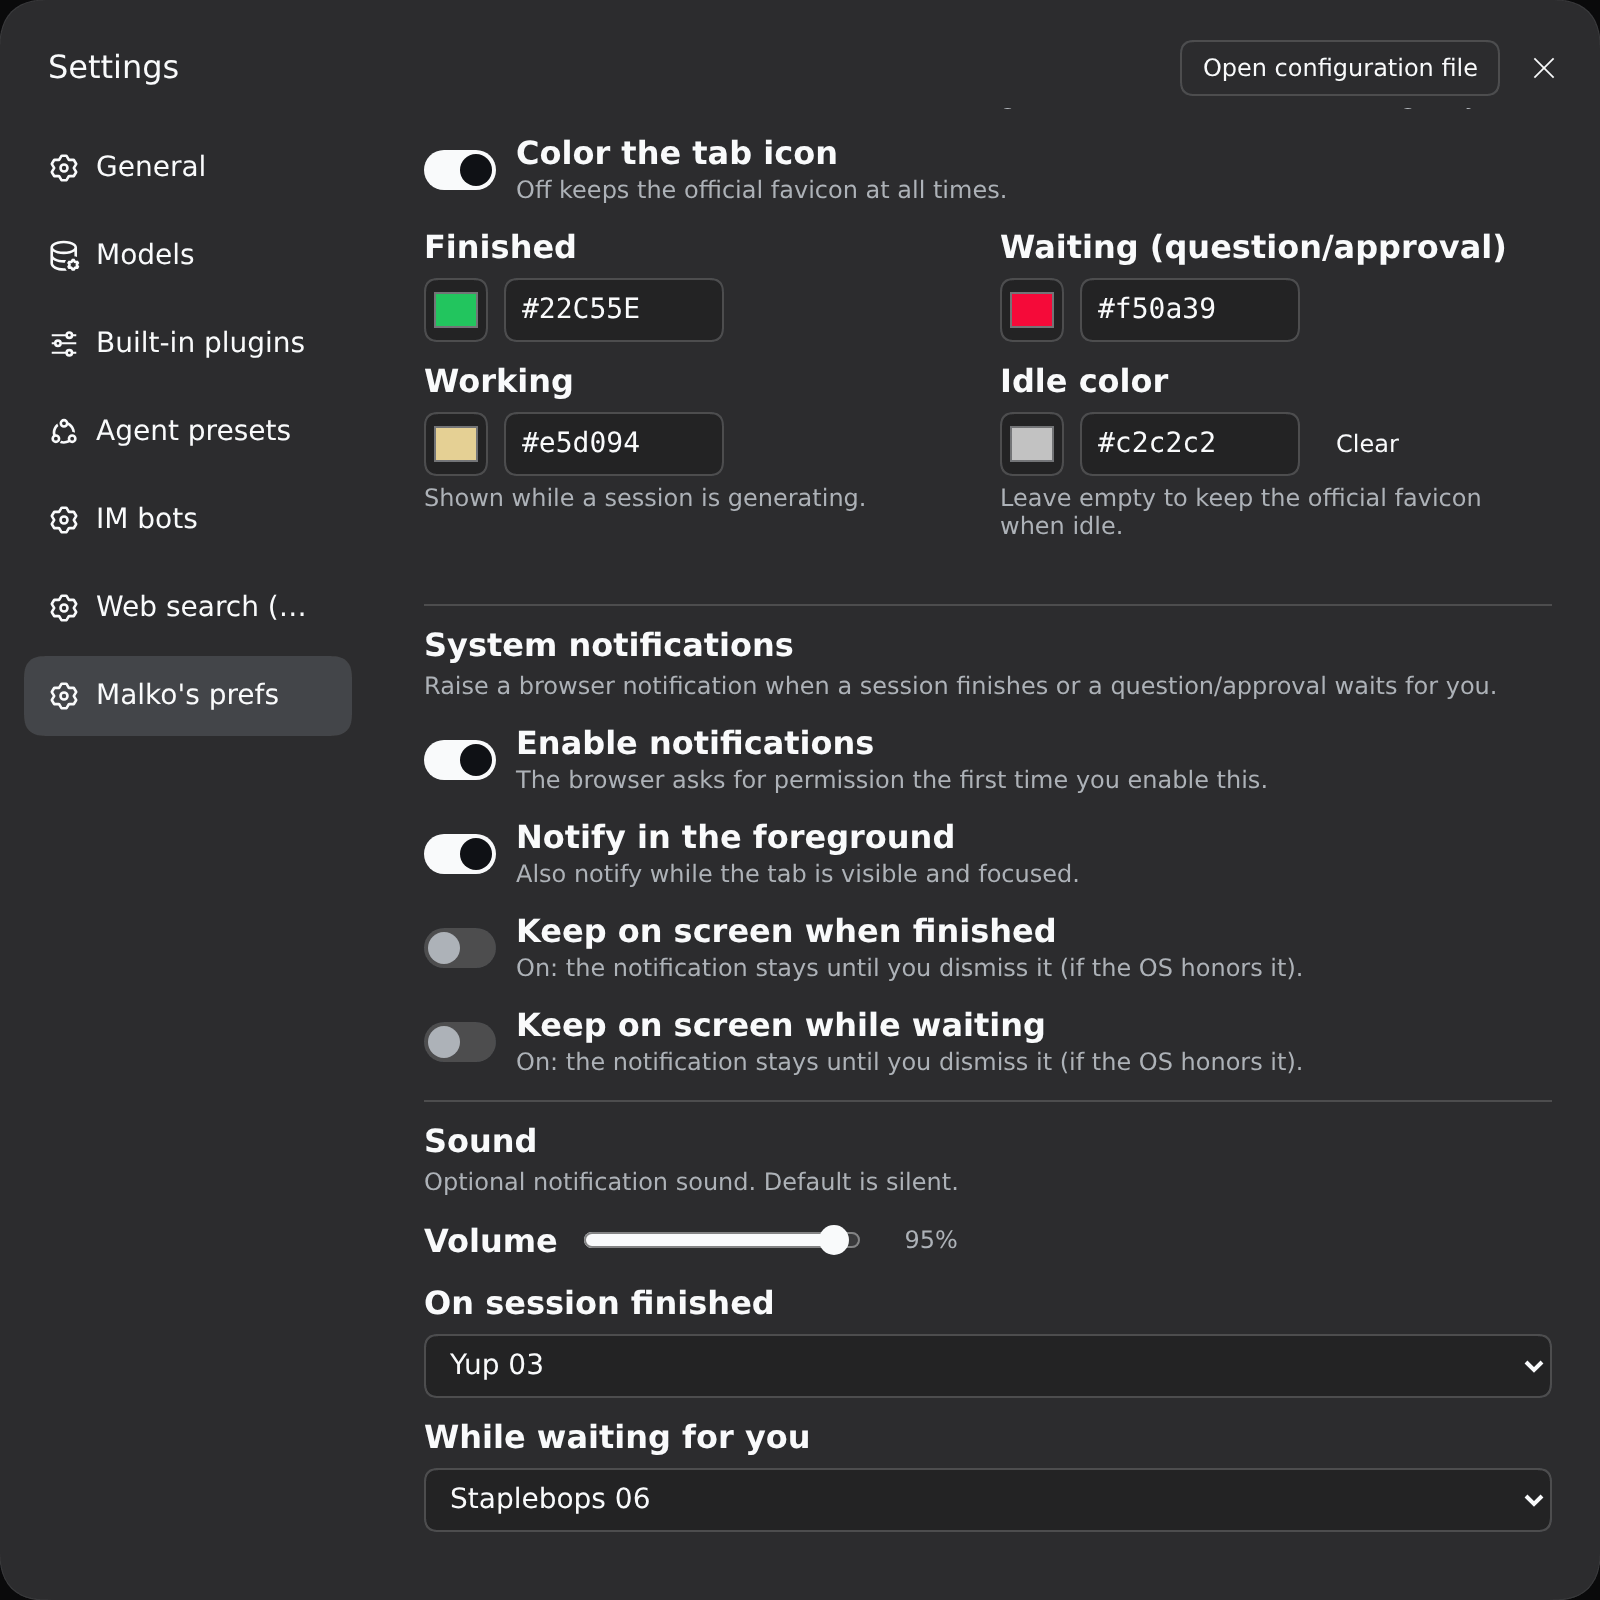
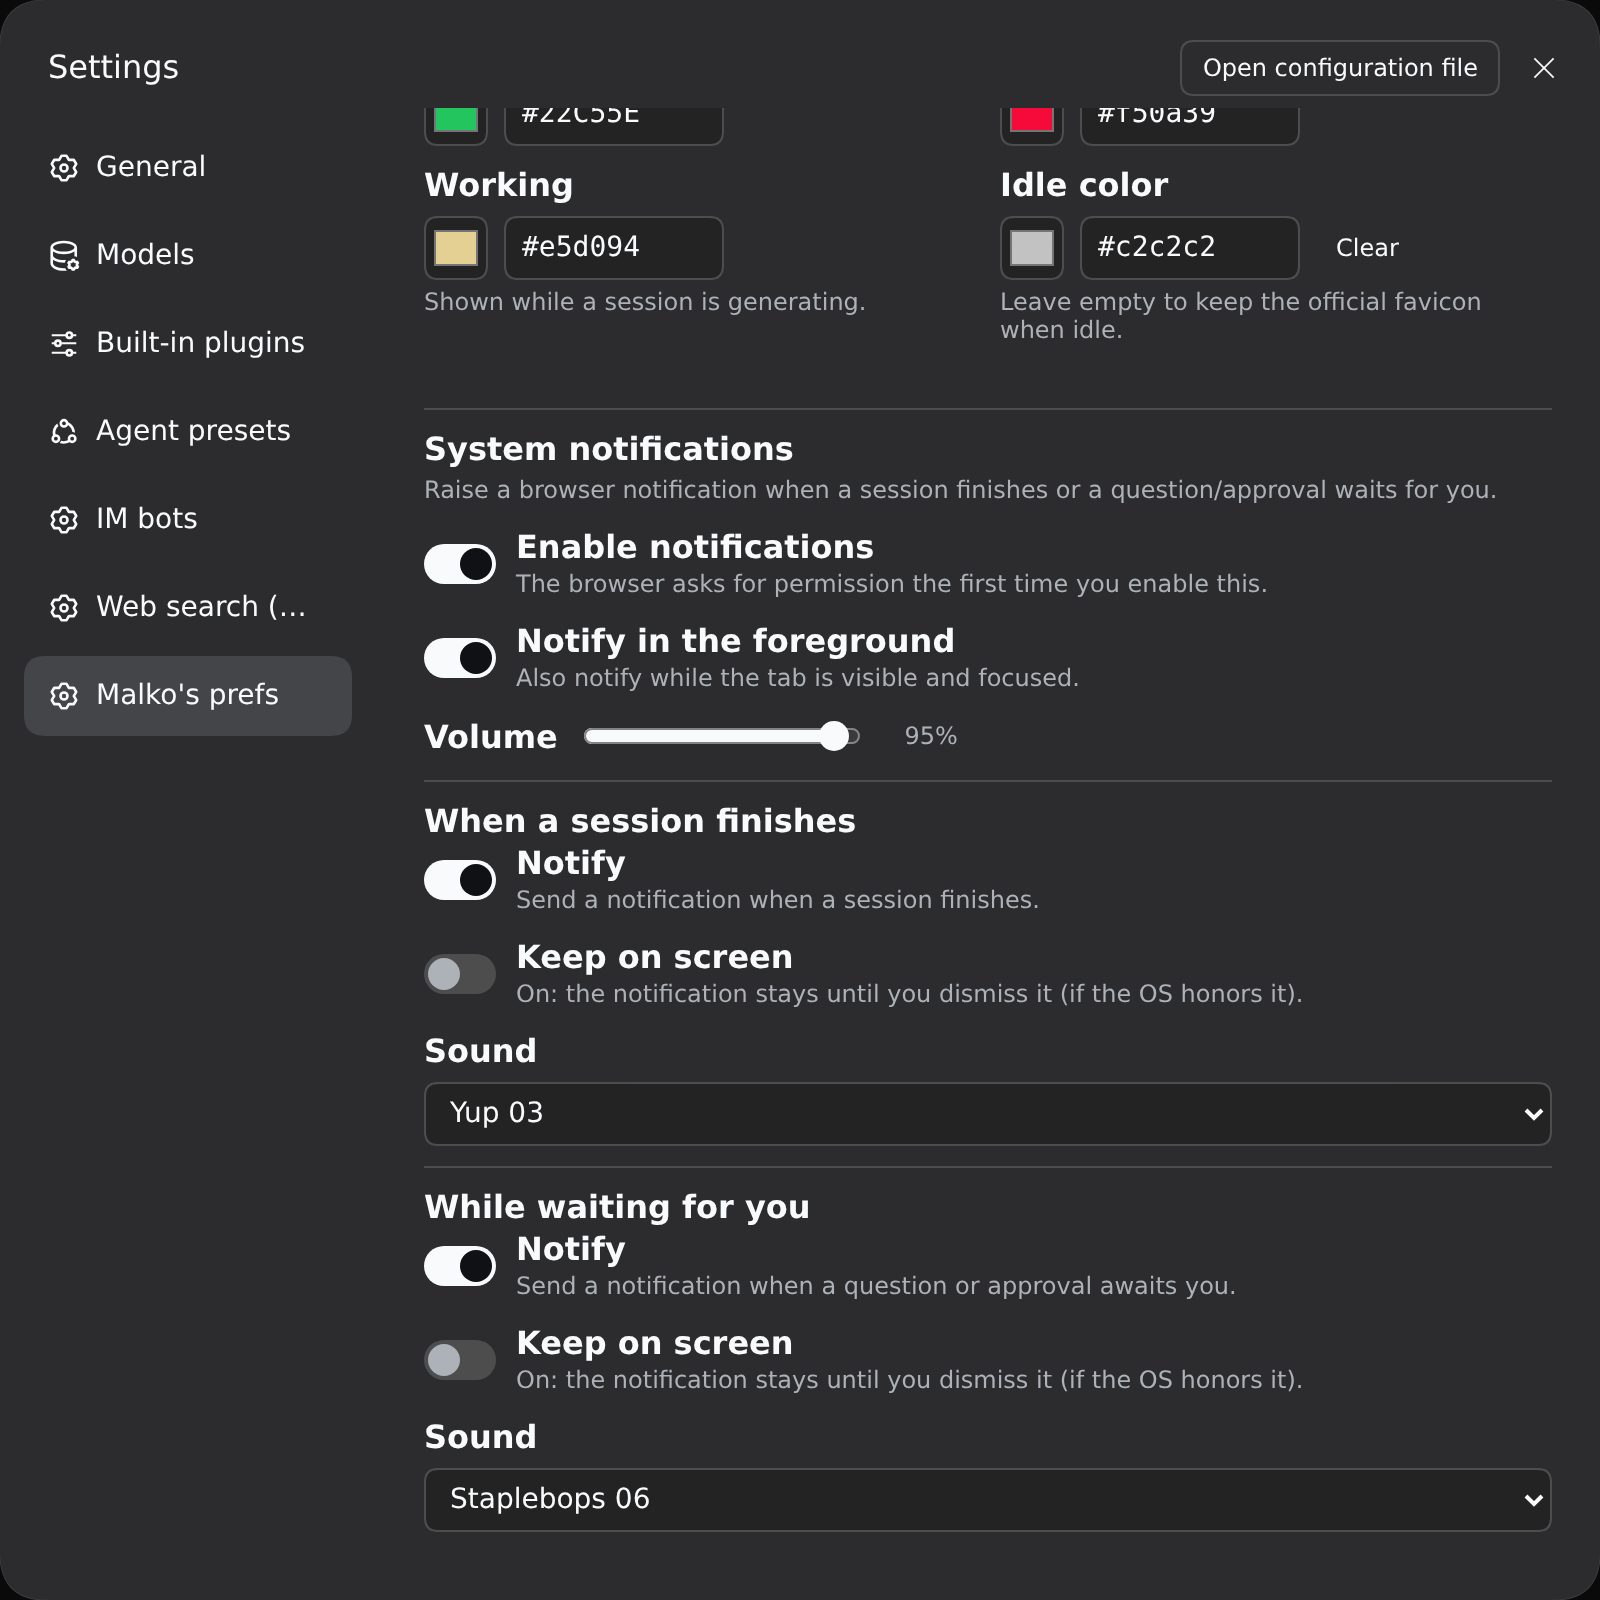
📝 Update README and screenshots for the per-type notification groups

diff --git a/README.md b/README.md
@@ -177,12 +177,11 @@ until you have interacted with the page at least once.
 |---|---|---|
 | Color the tab icon | `colorsEnabled` | on |
 | Finished / Waiting / Working / Idle color | `green` / `amber` / `working` / `black` | official sidebar colors for green/amber, blue for working; `black` empty = official favicon |
-| Enable notifications | `notifyEnabled` | **off** |
-| Notify in the foreground | `notifyForeground` | off |
-| Keep finished on screen | `notifyDonePersistent` | off (auto-hide) |
-| Keep waiting on screen | `notifyPendingPersistent` | off (auto-hide) |
-| Volume | `notifyVolume` | `0.6` |
-| Sound on finished / waiting | `notifyDoneSound` / `notifyPendingSound` | `none` (silent) |
+| Enable notifications (master) | `notifyEnabled` | **off** |
+| Notify in the foreground (global) | `notifyForeground` | off |
+| Volume (global) | `notifyVolume` | `0.6` |
+| Finished: notify / keep on screen / sound | `notifyDoneEnabled` / `notifyDonePersistent` / `notifyDoneSound` | on / off / `none` |
+| Waiting: notify / keep on screen / sound | `notifyPendingEnabled` / `notifyPendingPersistent` / `notifyPendingSound` | on / off / `none` |
 
 > System notifications need a **secure context** — `http://127.0.0.1:PORT` or
 > `localhost`. Opened over a LAN IP the Notification API is unavailable (a
